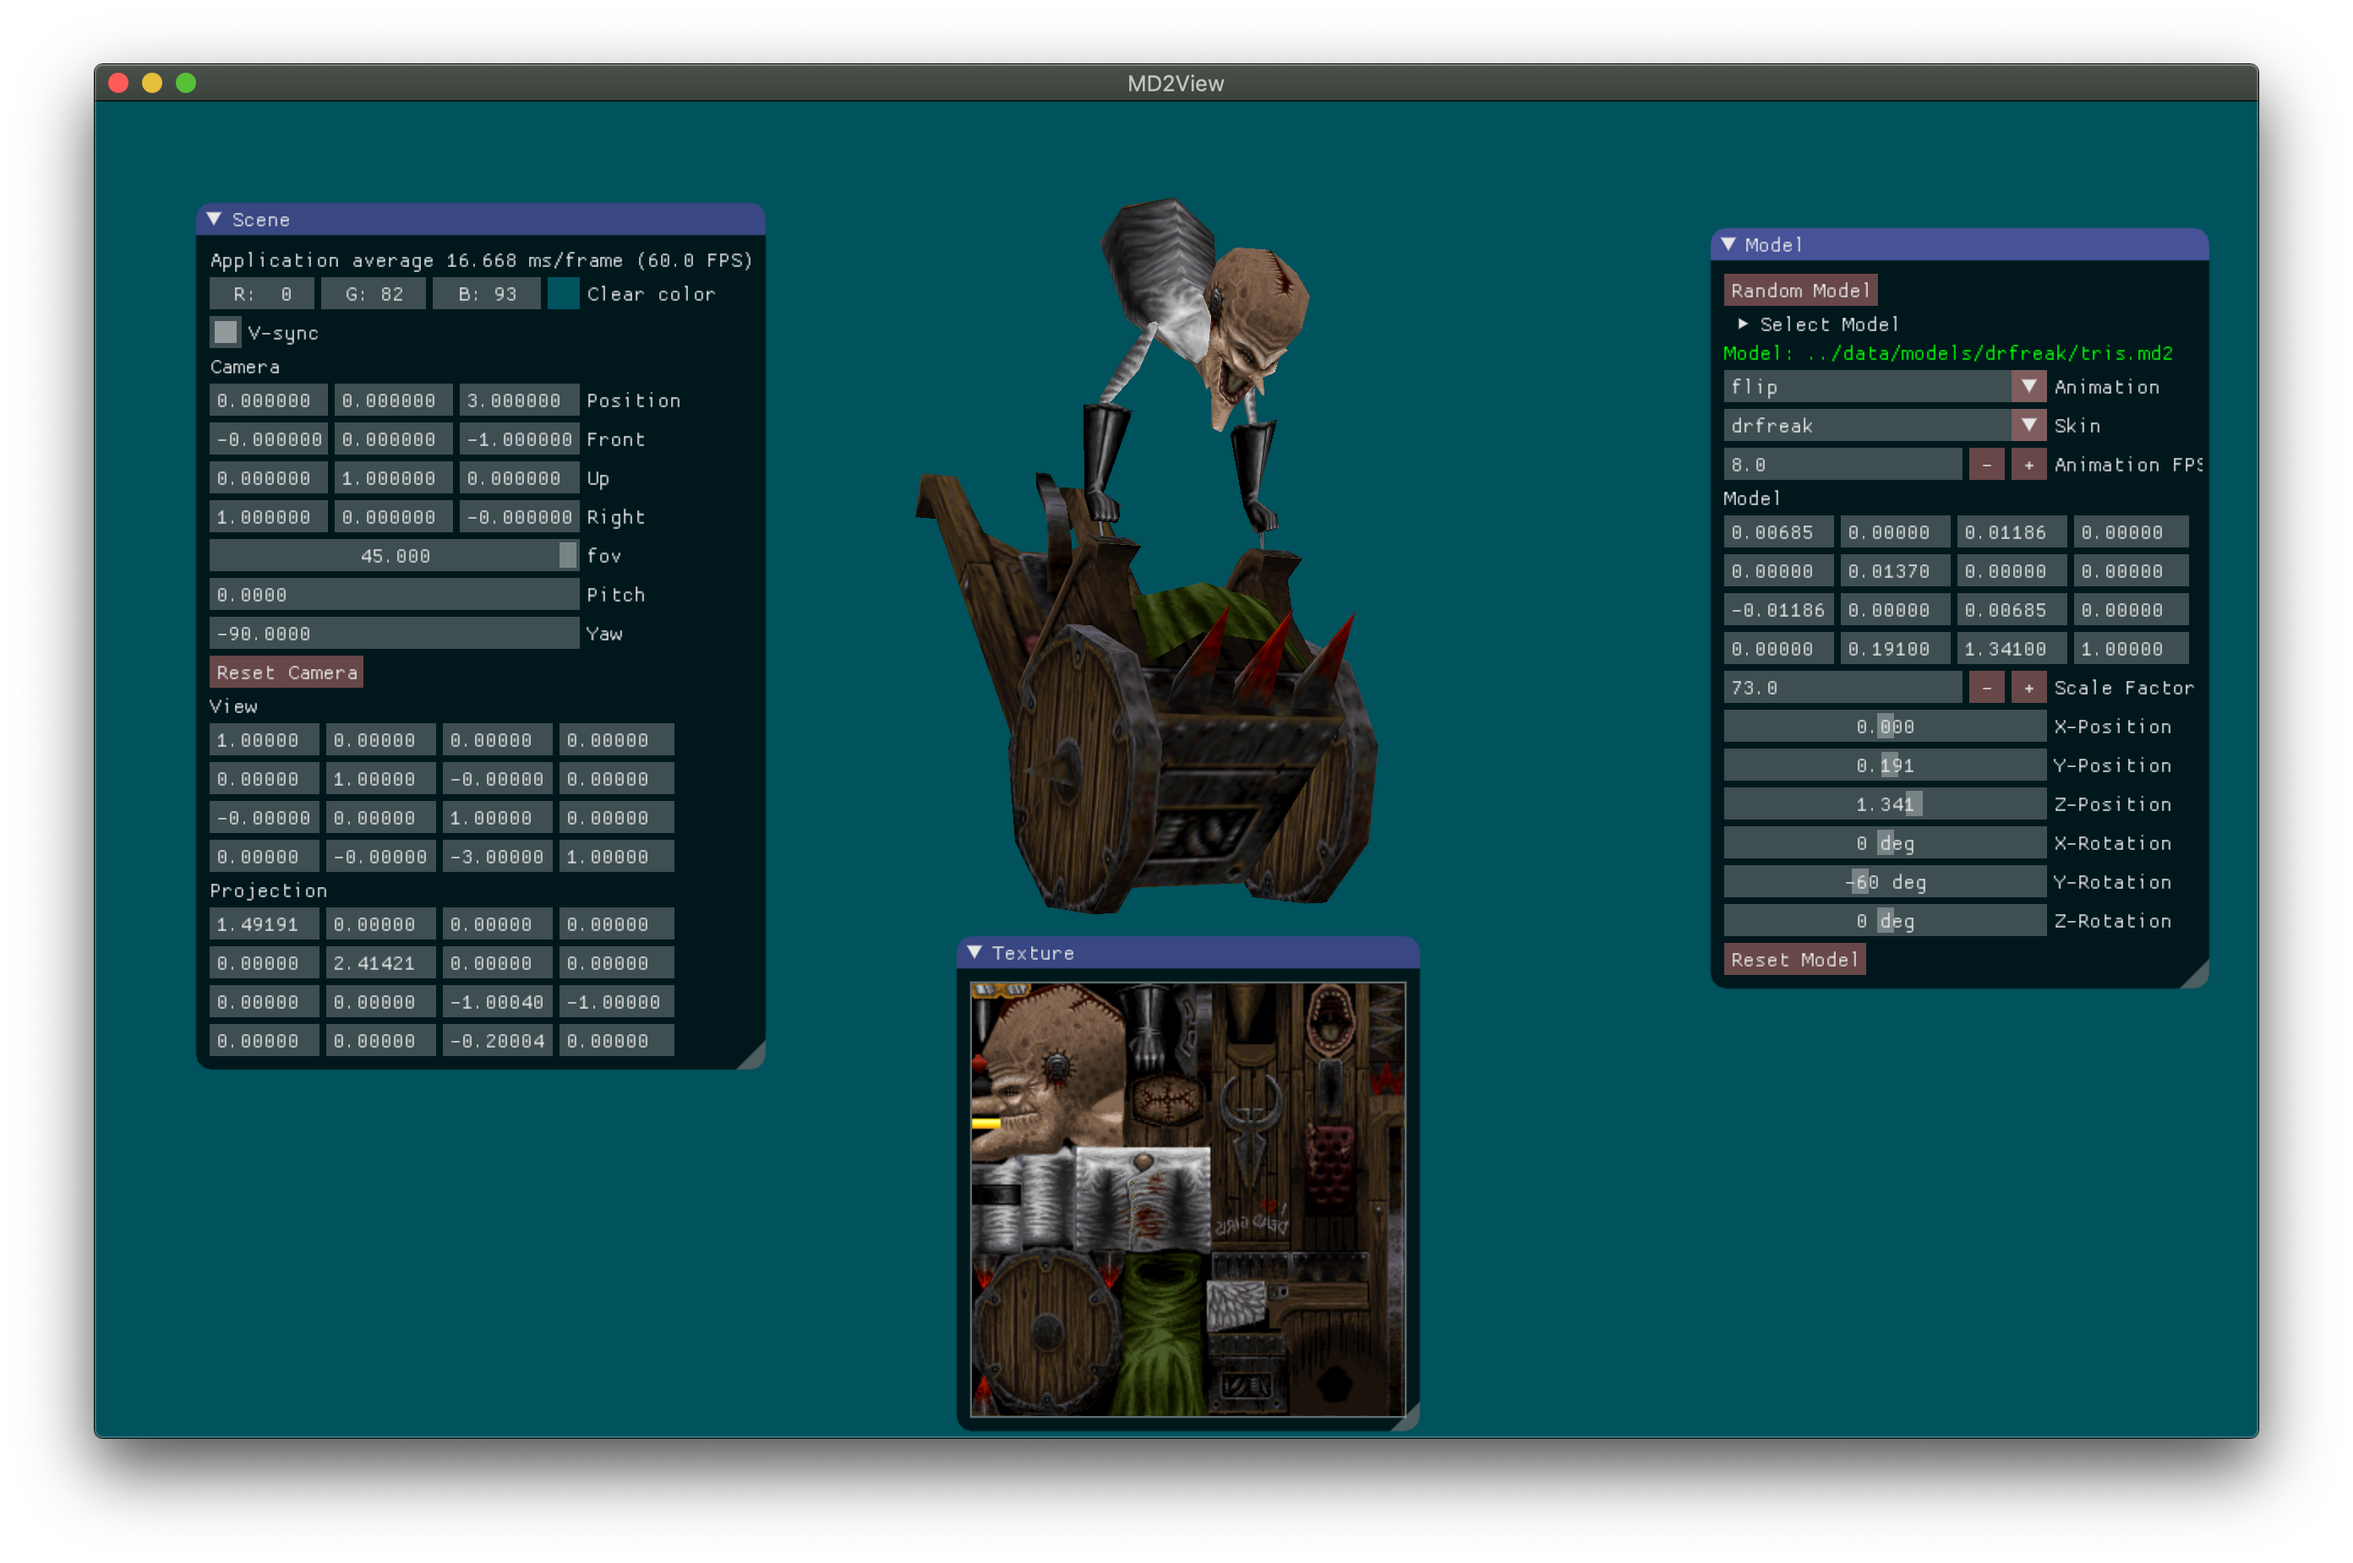
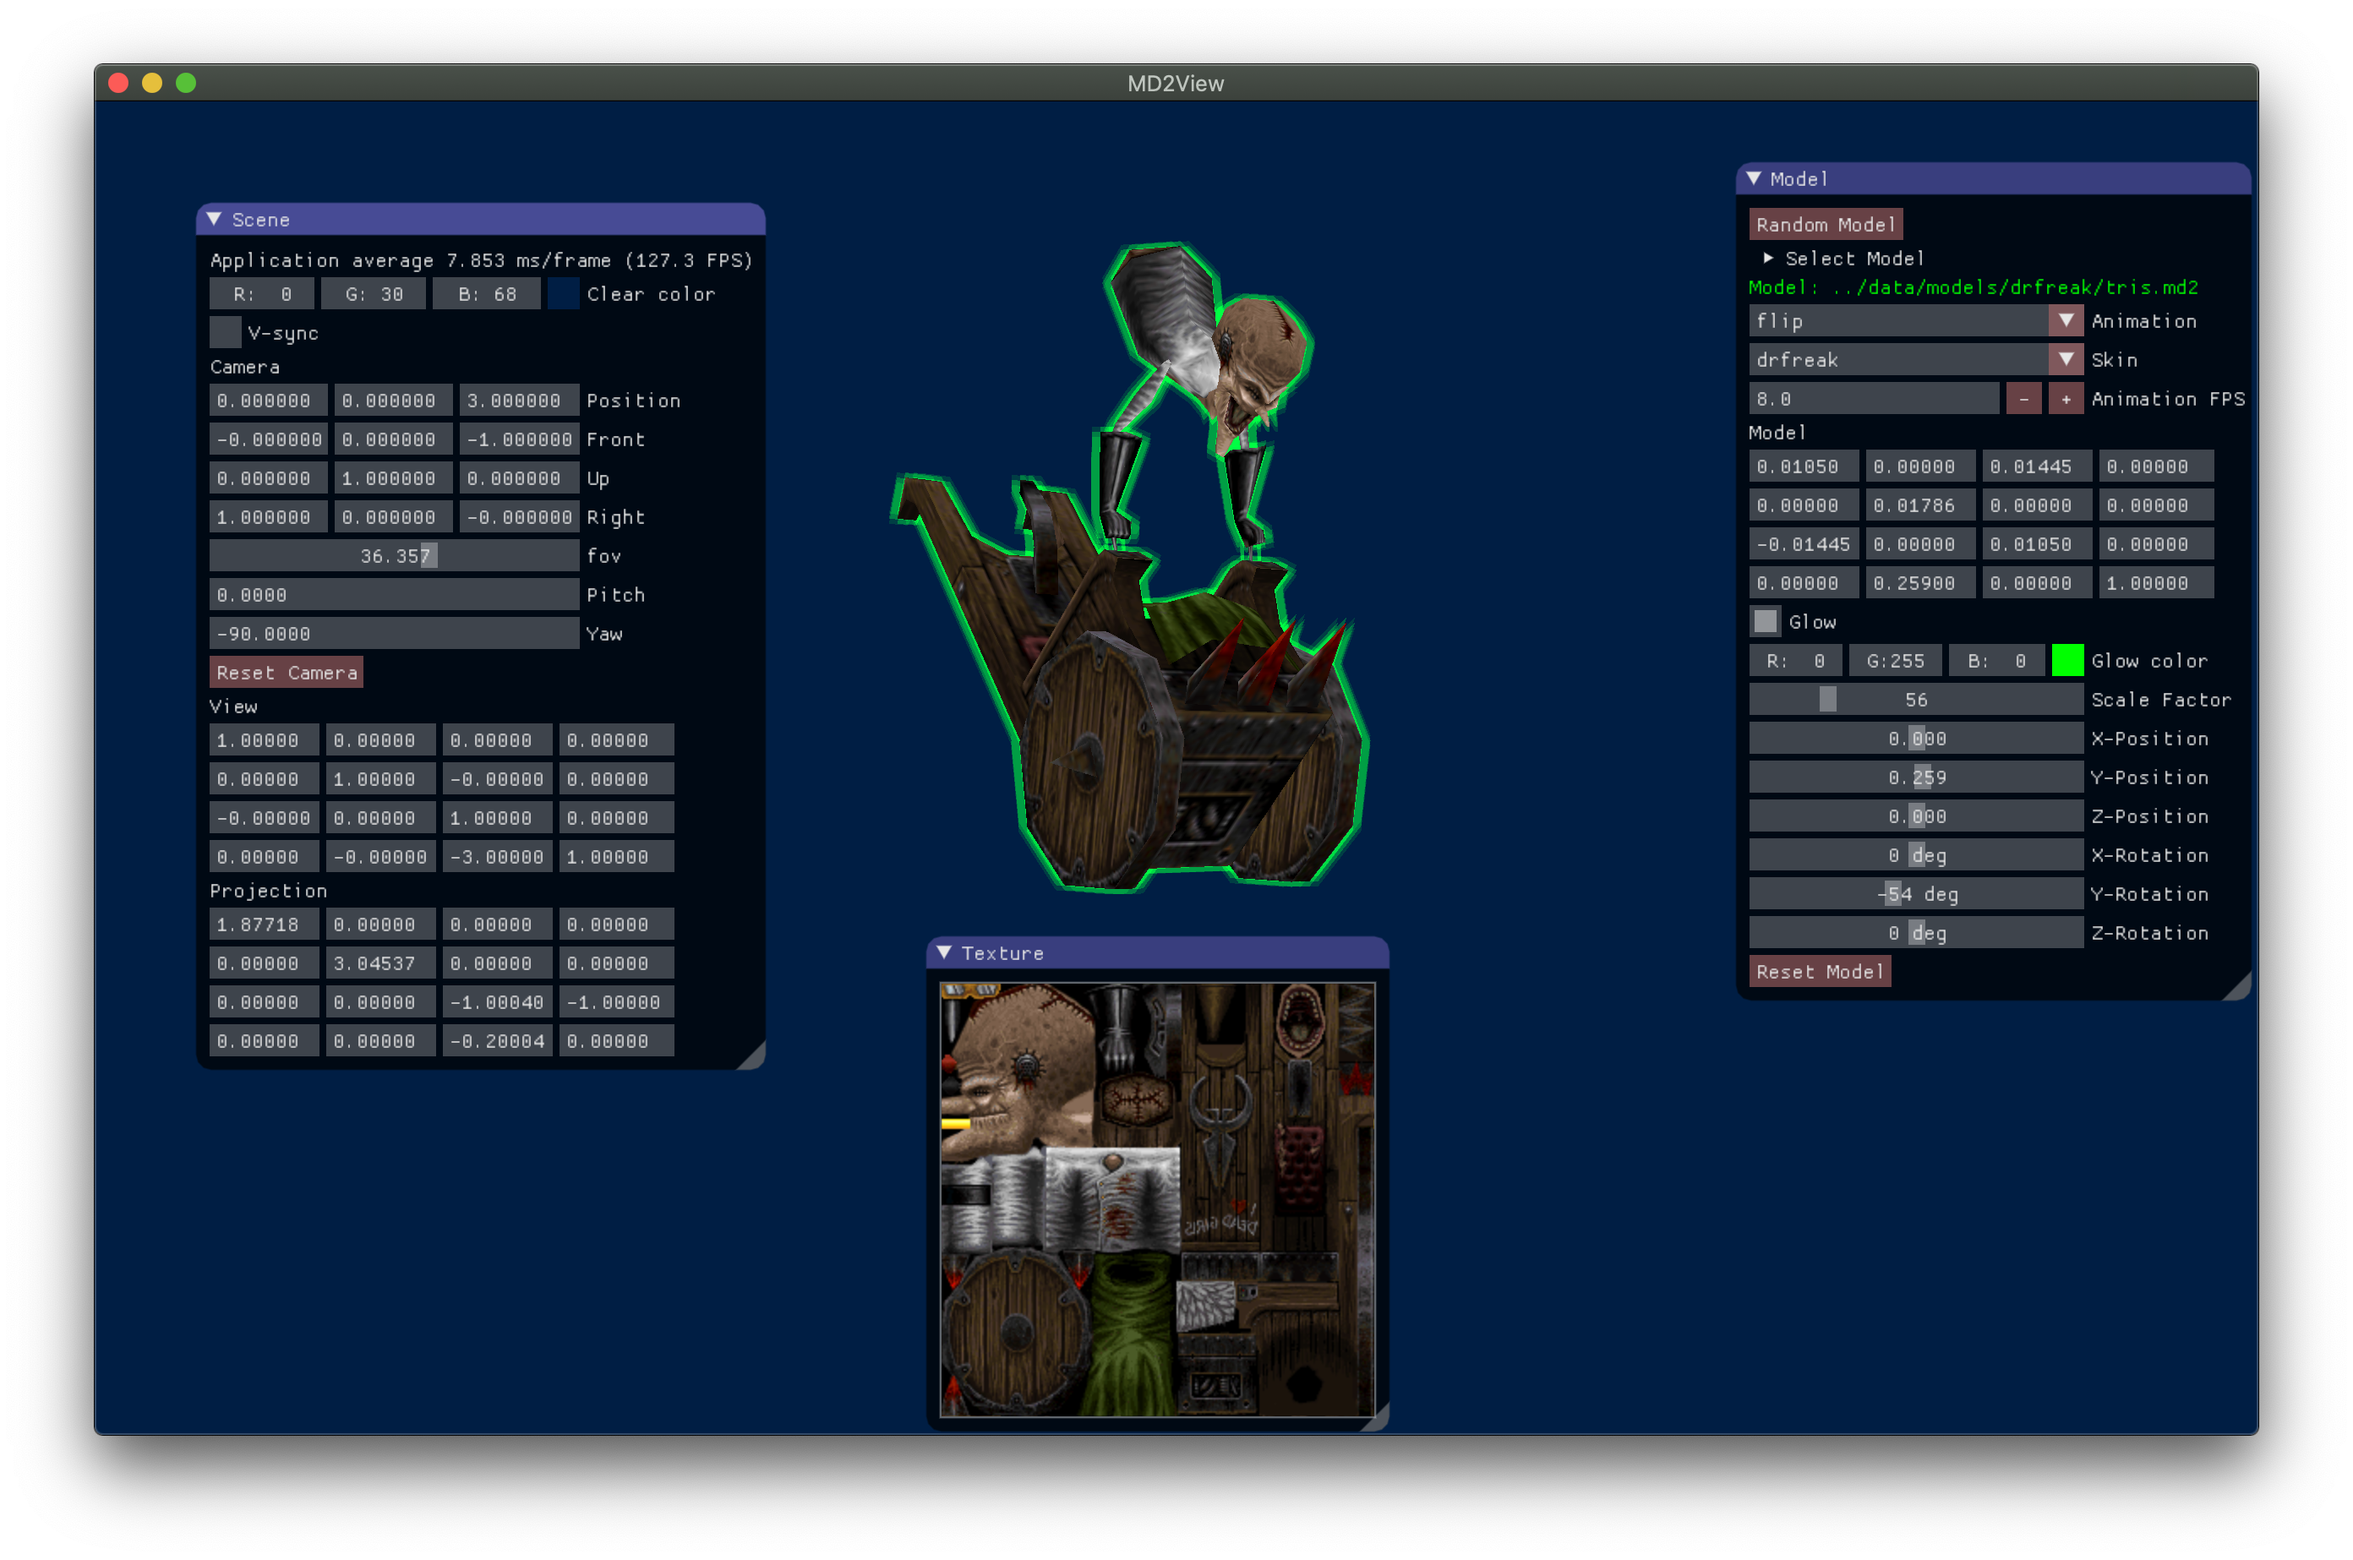
update screenshots and readme

diff --git a/README.md b/README.md
@@ -25,6 +25,9 @@ You can control the camera by pressing F1. The camera controls are:
 The FOV can also be adjusted with the GUI. The curret view and projection matrices
 will be displayed in the GUI when you manipulate the camera.
 
+You can use the GUI to enable an optional post-processing "glow" effect around the
+model. You can set the color to use as well.
+
 ## Testing
 
 md2view has been tested this on the following systems:
@@ -52,6 +55,8 @@ While I have used many resources for learning OpenGL the one I personally like b
 Which is authored by [Joey de Vries](https://twitter.com/JoeyDeVriez).
 The code for those tutorials is licensed under [CC BY 4.0](https://creativecommons.org/licenses/by-nc/4.0/legalcode).
 Code for the camera and the blur shader is derived from those tutorials with modifications/customizations.
+
+The inspiration for the glow post-processing effect came from [Makin' Stuff Look Good](https://www.youtube.com/watch?v=SMLbbi8oaO8)
 
 For learning to read and work with the various file formats I used the following sources:
 
